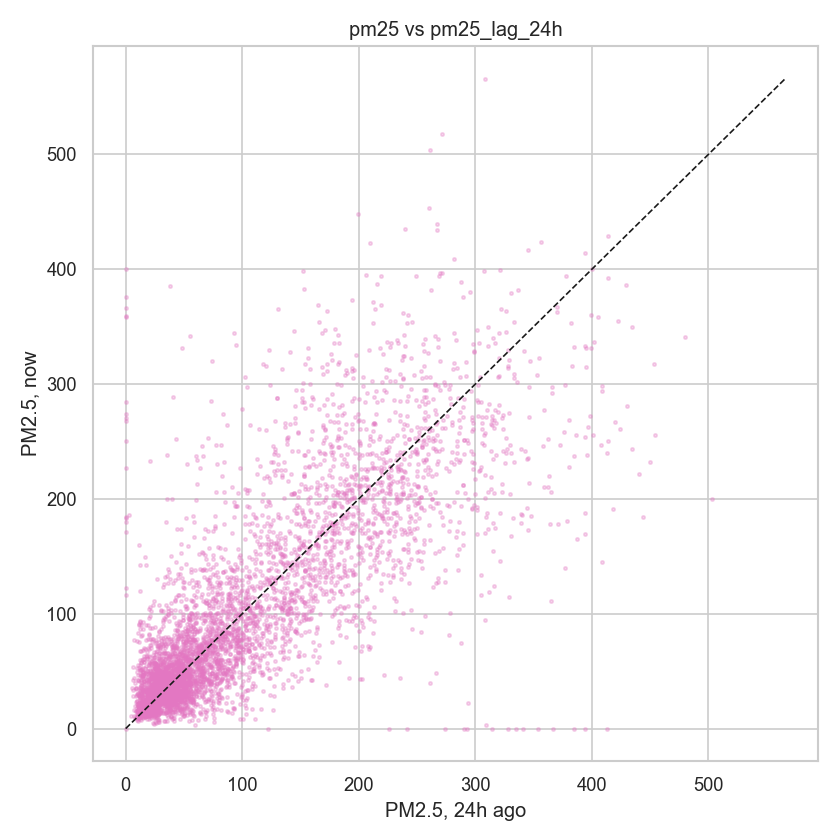
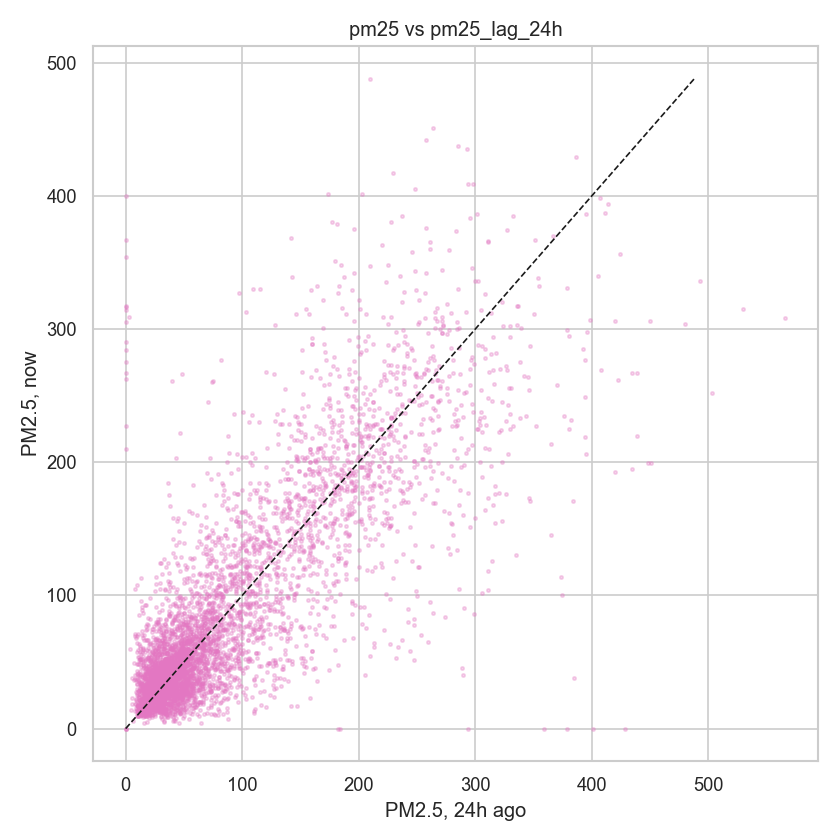
re-eda

diff --git a/eda/eda_lhr.py b/eda/eda_lhr.py
@@ -5,16 +5,21 @@ Exploratory Data Analysis on the Lahore base AQI feature group.
 Run this locally (needs your .env with HOPSWORKS_API_KEY set).
 
 Produces:
-  - Summary stats (row counts, missingness, source breakdown)
-  - Full PM2.5 time series plot (with live/dead/interpolated coloring)
+  - Summary stats (row counts, missingness)
+  - Full PM2.5 time series plot (colored by interpolated vs measured)
   - Monthly average PM2.5 (seasonality check)
   - Hour-of-day and day-of-week average PM2.5
   - PM2.5 distribution histogram
-  - Correlation heatmap (weather features vs pm25)
+  - Correlation heatmap (weather + engineered features vs pm25)
   - Lag feature sanity check (pm25_lag_24h vs actual pm25)
   - Target horizon comparison (24h/48h/72h)
 
 All plots saved to eda/output/ as PNGs, plus a printed text summary.
+
+Note: the dead/StateAir station and its "source" column were removed from
+the pipeline (Clarity is the only feed now), so the old live-vs-dead
+source breakdown and sensor-bias comparison no longer apply and have been
+dropped from this script.
 """
 
 import os
@@ -30,7 +35,7 @@ load_dotenv()
 
 HOPSWORKS_API_KEY = os.getenv("HOPSWORKS_API_KEY")
 FEATURE_GROUP_NAME = "aqi_base_lahore_fg"
-FEATURE_GROUP_VERSION = 3 # match whatever version your backfill actually landed in
+FEATURE_GROUP_VERSION = 5  # match whatever version your backfill actually landed in
 
 OUTPUT_DIR = Path(__file__).parent / "output"
 OUTPUT_DIR.mkdir(exist_ok=True)
@@ -38,14 +43,14 @@ OUTPUT_DIR.mkdir(exist_ok=True)
 sns.set_theme(style="whitegrid")
 
 
-#loadin data from hopsworks
+# loading data from hopsworks
 
 def load_data():
     print("Connecting to Hopsworks...")
     project = hopsworks.login(api_key_value=HOPSWORKS_API_KEY)
     fs = project.get_feature_store()
     fg = fs.get_feature_group(FEATURE_GROUP_NAME, version=FEATURE_GROUP_VERSION)
- 
+
     print("Reading feature group...")
     try:
         df = fg.read()
@@ -58,7 +63,7 @@ def load_data():
     return df
 
 
-# Summary stats , mising vals, row counts, dead vs live vs interpolated breakdown 
+# Summary stats, missing vals, row counts
 
 
 def print_summary(df):
@@ -68,8 +73,6 @@ def print_summary(df):
     print(f"Date range: {df['timestamp'].min()}  ->  {df['timestamp'].max()}")
     print(f"Total rows: {len(df)}")
 
-    print("\n-- source breakdown --")
-    print(df["source"].value_counts())
     print(f"\n% interpolated: {100 * df['pm25_interpolated'].mean():.1f}%")
 
     print("\n-- pm25 stats --")
@@ -80,15 +83,15 @@ def print_summary(df):
 
 
 # Plots
-# recent data (Clarity) vs old (state air) plot
 
 def plot_full_timeseries(df):
     fig, ax = plt.subplots(figsize=(16, 5))
-    colors = {"live": "#2ca02c", "dead": "#1f77b4", "interpolated": "#ff7f0e", "unknown": "#999999"}
-    for source, group in df.groupby("source"):
-        ax.scatter(group["timestamp"], group["pm25"], s=2, label=source,
-                   color=colors.get(source, "#999999"), alpha=0.5)
-    ax.set_title("Lahore PM2.5 — Full Time Series (colored by source)")
+    colors = {False: "#2ca02c", True: "#ff7f0e"}
+    labels = {False: "measured", True: "interpolated/filled"}
+    for is_interp, group in df.groupby("pm25_interpolated"):
+        ax.scatter(group["timestamp"], group["pm25"], s=2, label=labels.get(is_interp, str(is_interp)),
+                   color=colors.get(is_interp, "#999999"), alpha=0.5)
+    ax.set_title("Lahore PM2.5 — Full Time Series (colored by measured vs interpolated)")
     ax.set_xlabel("Date")
     ax.set_ylabel("PM2.5 (µg/m³)")
     ax.legend(markerscale=8)
@@ -97,7 +100,7 @@ def plot_full_timeseries(df):
     plt.close()
     print("Saved 01_full_timeseries.png")
 
-#monthly seasonality to see when pm2.5 spikes
+# monthly seasonality to see when pm2.5 spikes
 def plot_monthly_seasonality(df):
     monthly = df.groupby(df["timestamp"].dt.month)["pm25"].agg(["mean", "median", "std"])
     fig, ax = plt.subplots(figsize=(10, 5))
@@ -111,7 +114,7 @@ def plot_monthly_seasonality(df):
     plt.close()
     print("Saved 02_monthly_seasonality.png")
 
-#plot to check hourly n weekly pattern 
+# plot to check hourly n weekly pattern
 def plot_hour_and_dow(df):
     fig, axes = plt.subplots(1, 2, figsize=(14, 5))
 
@@ -134,7 +137,7 @@ def plot_hour_and_dow(df):
     plt.close()
     print("Saved 03_hour_dow_patterns.png")
 
-#histogram to see which vars contribute to pm2.5 so i can feature select
+# histogram to see which vars contribute to pm2.5 so i can feature select
 def plot_distribution(df):
     fig, ax = plt.subplots(figsize=(10, 5))
     ax.hist(df["pm25"].dropna(), bins=80, color="#17becf", edgecolor="white")
@@ -146,15 +149,22 @@ def plot_distribution(df):
     plt.close()
     print("Saved 04_pm25_distribution.png")
 
-#the heatmap to check all vars relating to pm2.5 for da feature selection
+# the heatmap to check all vars relating to pm2.5 for feature selection
 def plot_correlation(df):
-    cols = ["pm25", "temperature_2m", "relative_humidity_2m", "surface_pressure",
-            "wind_speed_10m", "precipitation", "pm25_lag_24h", "pm25_roll_3h",
-            "pm25_change_rate_3h"]
+    cols = [
+        "pm25", "temperature_2m", "relative_humidity_2m", "surface_pressure",
+        "wind_speed_10m", "wind_dir_sin", "wind_dir_cos", "boundary_layer_height",
+        "precipitation", "is_smog_season",
+        "pm25_lag_1h", "pm25_lag_6h", "pm25_lag_24h", "pm25_lag_48h", "pm25_lag_168h",
+        "pm25_roll_3h", "pm25_roll_24h_mean", "pm25_roll_24h_std",
+        "pm25_change_rate_3h",
+    ]
+    cols = [c for c in cols if c in df.columns]
     corr = df[cols].corr()
 
-    fig, ax = plt.subplots(figsize=(9, 7))
-    sns.heatmap(corr, annot=True, fmt=".2f", cmap="coolwarm", center=0, ax=ax)
+    fig, ax = plt.subplots(figsize=(13, 11))
+    sns.heatmap(corr, annot=True, fmt=".2f", cmap="coolwarm", center=0, ax=ax,
+                annot_kws={"size": 7})
     ax.set_title("Feature Correlation Heatmap")
     plt.tight_layout()
     plt.savefig(OUTPUT_DIR / "05_correlation_heatmap.png", dpi=120)
@@ -175,7 +185,7 @@ def plot_lag_sanity_check(df):
     plt.close()
     print("Saved 06_lag_sanity_check.png")
 
-#plot to comapre 24h prediction -> 72h 
+# plot to compare 24h prediction -> 72h
 def plot_target_horizons(df):
     sample = df.sample(min(3000, len(df)), random_state=42)
     fig, axes = plt.subplots(1, 3, figsize=(15, 5), sharey=True)
@@ -195,127 +205,6 @@ def plot_target_horizons(df):
     plt.close()
     print("Saved 07_target_horizons.png")
 
-from pathlib import Path
-import matplotlib.pyplot as plt
-import numpy as np
-import pandas as pd
-from scipy import stats
-import seaborn as sns
-
-
-def analyze_sensor_bias(df: pd.DataFrame, output_dir: Path):
-    """Quantifies statistical distribution divergence and environmental humidity drift
-
-    between StateAir (reference-grade) and Clarity (low-cost optical) sensors.
-    """
-    output_dir.mkdir(parents=True, exist_ok=True)
-
-    # 1. Filter non-interpolated raw values per source
-    stateair = df[
-        (df["source"] == "dead") & (df["pm25_interpolated"] == False)
-    ]["pm25"].dropna()
-    clarity = df[(df["source"] == "live") & (df["pm25_interpolated"] == False)][
-        "pm25"
-    ].dropna()
-
-    # 2. Summary Statistics Table
-    metrics = {
-        "Metric": [
-            "Sample Count",
-            "Mean",
-            "Std Dev",
-            "Median",
-            "IQR",
-            "95th Percentile",
-        ],
-        "StateAir (Reference)": [
-            len(stateair),
-            stateair.mean(),
-            stateair.std(),
-            stateair.median(),
-            stateair.quantile(0.75) - stateair.quantile(0.25),
-            stateair.quantile(0.95),
-        ],
-        "Clarity (Optical)": [
-            len(clarity),
-            clarity.mean(),
-            clarity.std(),
-            clarity.median(),
-            clarity.quantile(0.75) - clarity.quantile(0.25),
-            clarity.quantile(0.95),
-        ],
-    }
-    stats_summary = pd.DataFrame(metrics)
-
-    print("\n" + "=" * 60)
-    print("SENSOR SOURCE STATISTICAL COMPARISON")
-    print("=" * 60)
-    print(stats_summary.to_string(index=False))
-
-    # 3. Two-Sample Kolmogorov-Smirnov Test (Distribution Similarity)
-    ks_stat, p_value = stats.ks_2samp(stateair, clarity)
-    print(f"\nKS-Test Statistic: {ks_stat:.4f} | p-value: {p_value:.4e}")
-    if p_value < 0.05:
-        print(
-            "⚠  SIGNIFICANT DISTRIBUTION DRIFT DETECTED: Models trained on StateAir "
-            "will mis-estimate targets measured by Clarity."
-        )
-
-    # 4. Plotting Density Overlay and Humidity Interactions
-    fig, axes = plt.subplots(1, 2, figsize=(15, 5))
-
-    # Density Plot
-    sns.kdeplot(
-        stateair,
-        ax=axes[0],
-        label="StateAir (Reference)",
-        color="#1f77b4",
-        fill=True,
-        alpha=0.3,
-    )
-    sns.kdeplot(
-        clarity,
-        ax=axes[0],
-        label="Clarity (Optical)",
-        color="#2ca02c",
-        fill=True,
-        alpha=0.3,
-    )
-    axes[0].set_title("PM2.5 Density Overlay (StateAir vs Clarity)")
-    axes[0].set_xlabel("PM2.5 (µg/m³)")
-    axes[0].set_xlim(0, 400)
-    axes[0].legend()
-
-    # Humidity Interaction Check (Optical sensors over-read at >70% RH)
-    if "relative_humidity_2m" in df.columns:
-        df_valid = df[df["pm25_interpolated"] == False].copy()
-        df_valid["humidity_bin"] = pd.cut(
-            df_valid["relative_humidity_2m"],
-            bins=[0, 40, 65, 80, 100],
-            labels=["<40% (Dry)", "40-65% (Norm)", "65-80% (High)", ">80% (Extreme)"],
-        )
-        sns.boxplot(
-            data=df_valid,
-            x="humidity_bin",
-            y="pm25",
-            hue="source",
-            ax=axes[1],
-            palette={"dead": "#1f77b4", "live": "#2ca02c"},
-            showfliers=False,
-        )
-        axes[1].set_title("Humidity Sensitivity Check (Optical Drift)")
-        axes[1].set_xlabel("Relative Humidity Bin")
-        axes[1].set_ylabel("PM2.5 (µg/m³)")
-
-    plt.tight_layout()
-    plot_path = output_dir / "08_sensor_bias_analysis.png"
-    plt.savefig(plot_path, dpi=120)
-    plt.close()
-    print(f"\nSaved bias visualization to: {plot_path}")
-
-
-# Add to run_eda() inside eda_lahore.py:
-# analyze_sensor_bias(df, OUTPUT_DIR)
 
 def run_eda():
     df = load_data()
@@ -329,10 +218,9 @@ def run_eda():
     plot_correlation(df)
     plot_lag_sanity_check(df)
     plot_target_horizons(df)
-    analyze_sensor_bias(df, OUTPUT_DIR)
     print(f"\n✅ EDA complete. Plots saved to: {OUTPUT_DIR}")
     return df
 
-    
+
 if __name__ == "__main__":
     run_eda()
